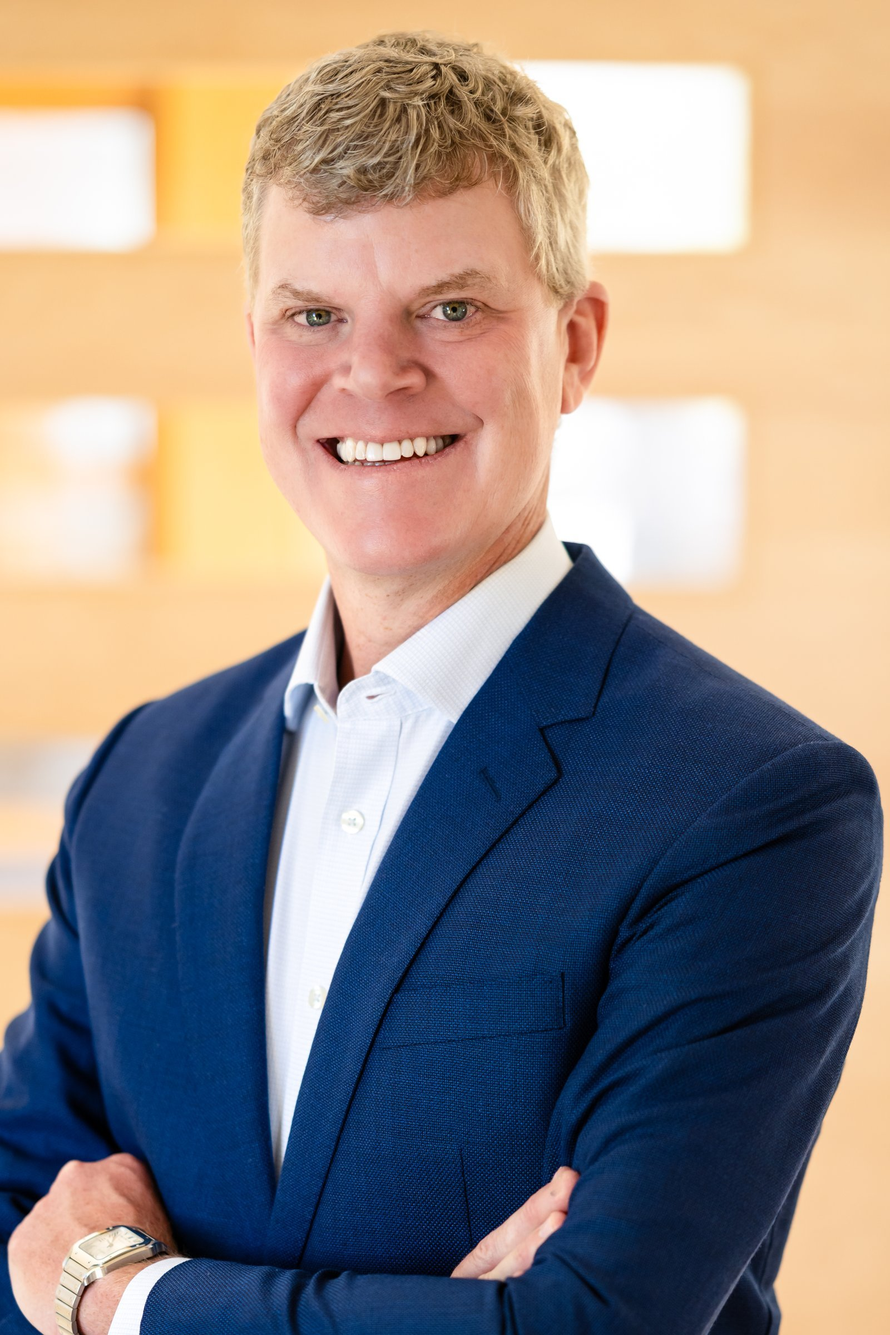
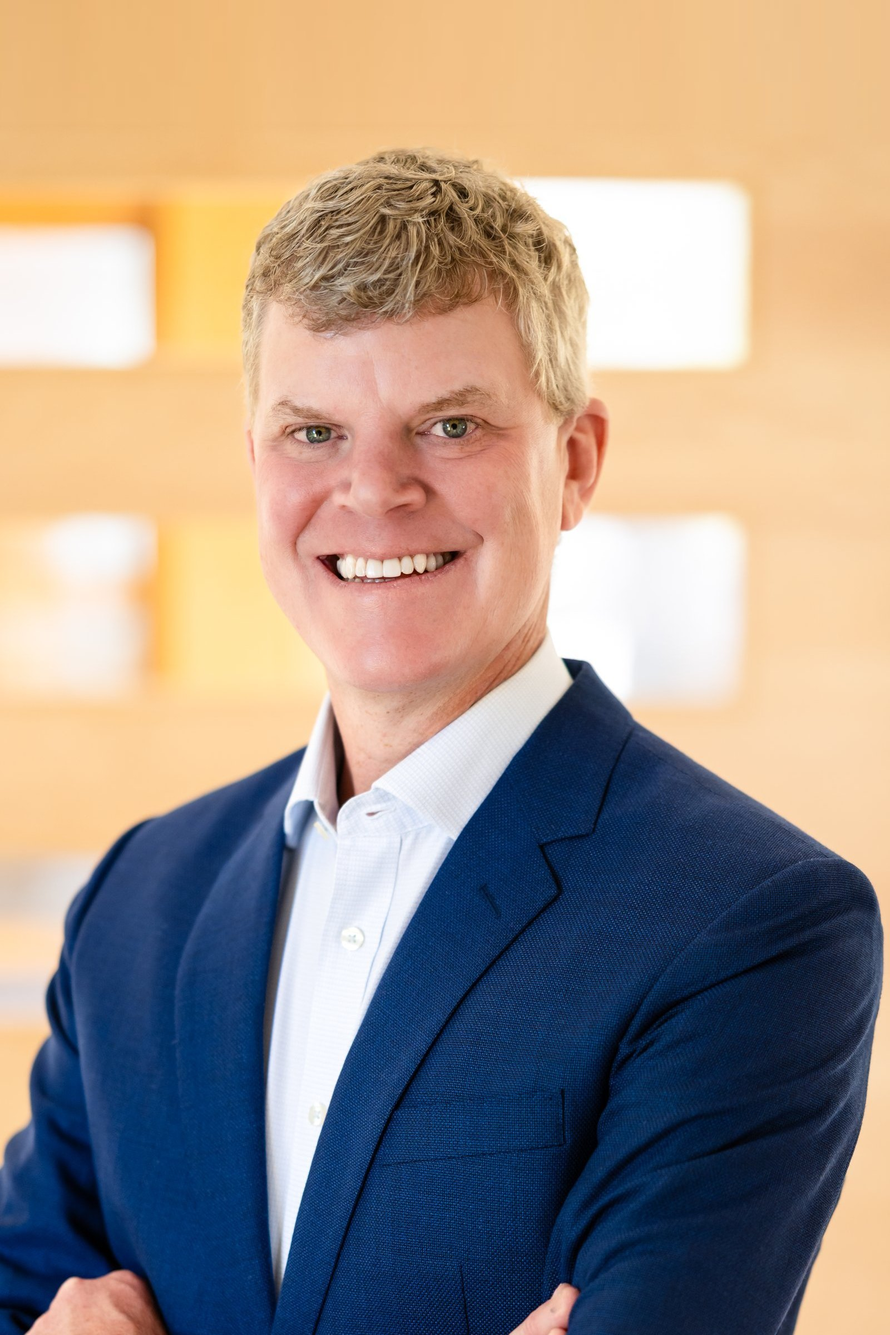
style: match Charles Scripps' headshot framing to Aaron's
Adds headroom above Chad's photo (wall background extended, bottom
trimmed) and aligns the Home card crop so both partners sit at the same
height and scale.

Claude-Session: https://claude.ai/code/session_012BvQ3o8Vvr8cCWr9paNvev

diff --git a/app/page.tsx b/app/page.tsx
@@ -155,7 +155,7 @@ export default function HomePage() {
           <ul className="grid gap-8 sm:grid-cols-2">
             {team.partners.map((p) => (
               <li key={p.name} className="reveal card-lift group overflow-hidden rounded-card border border-navy/10 bg-white">
-                <ImageSlot image={p.photo} sizes="(min-width: 1024px) 22rem, (min-width: 640px) 45vw, 100vw" className="aspect-[4/5] w-full [&_img]:transition-transform [&_img]:duration-500 group-hover:[&_img]:scale-[1.03]" />
+                <ImageSlot image={p.photo} sizes="(min-width: 1024px) 22rem, (min-width: 640px) 45vw, 100vw" className="aspect-[4/5] w-full [&_img]:object-[50%_25%] [&_img]:transition-transform [&_img]:duration-500 group-hover:[&_img]:scale-[1.03]" />
                 <div className="flex items-center justify-between gap-4 p-6">
                   <div>
                     <h3 className="text-xl font-bold text-ink">{p.name}</h3>
